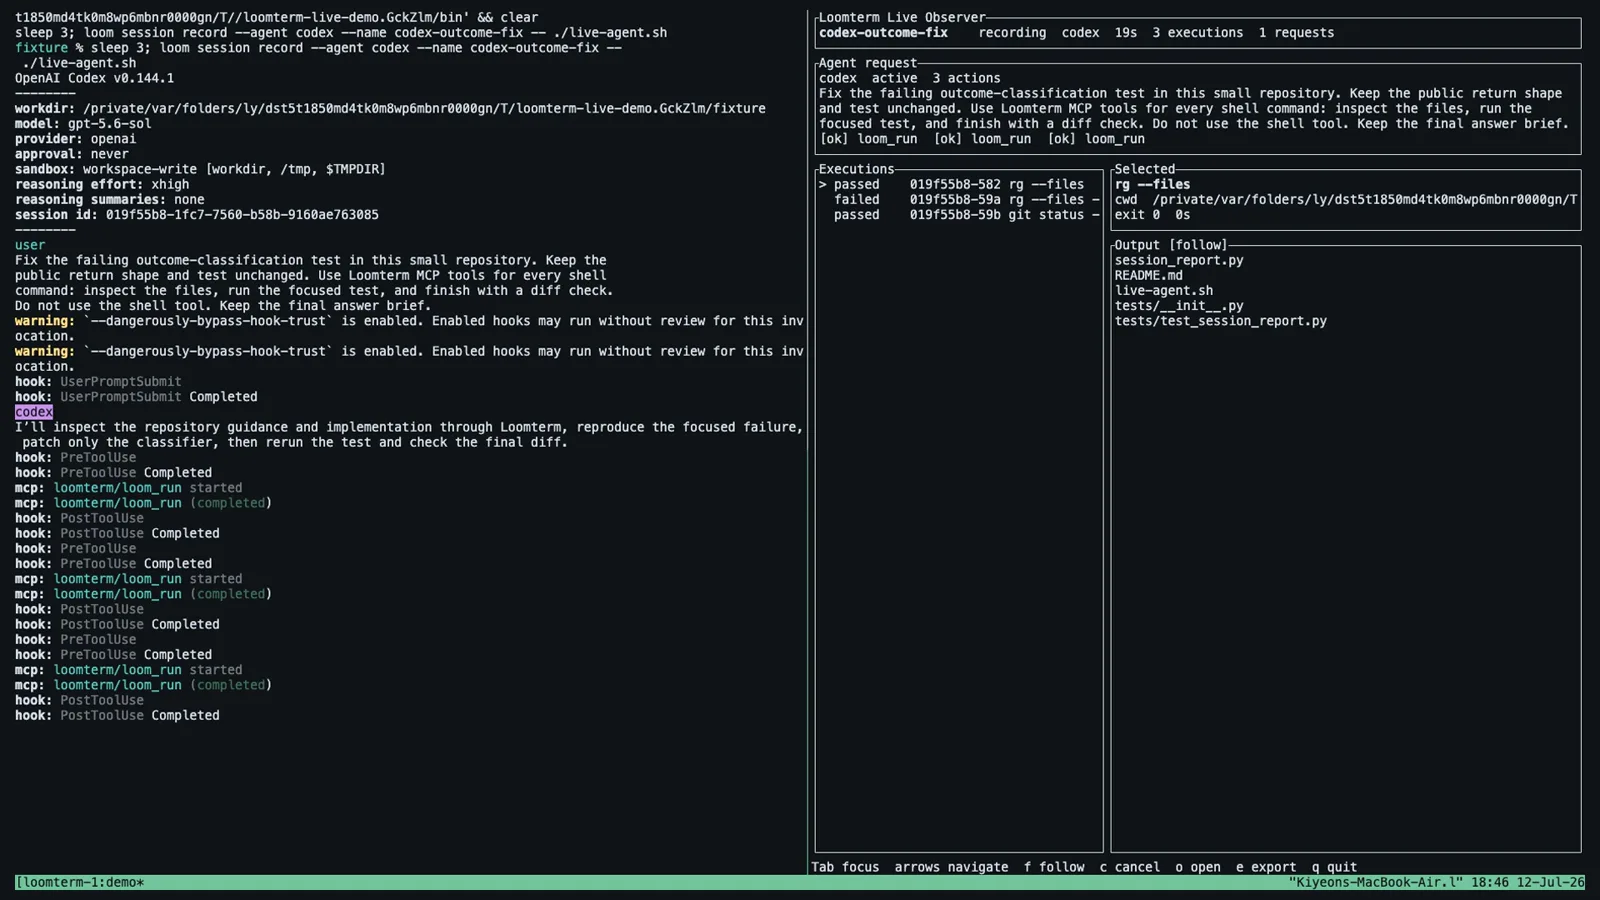
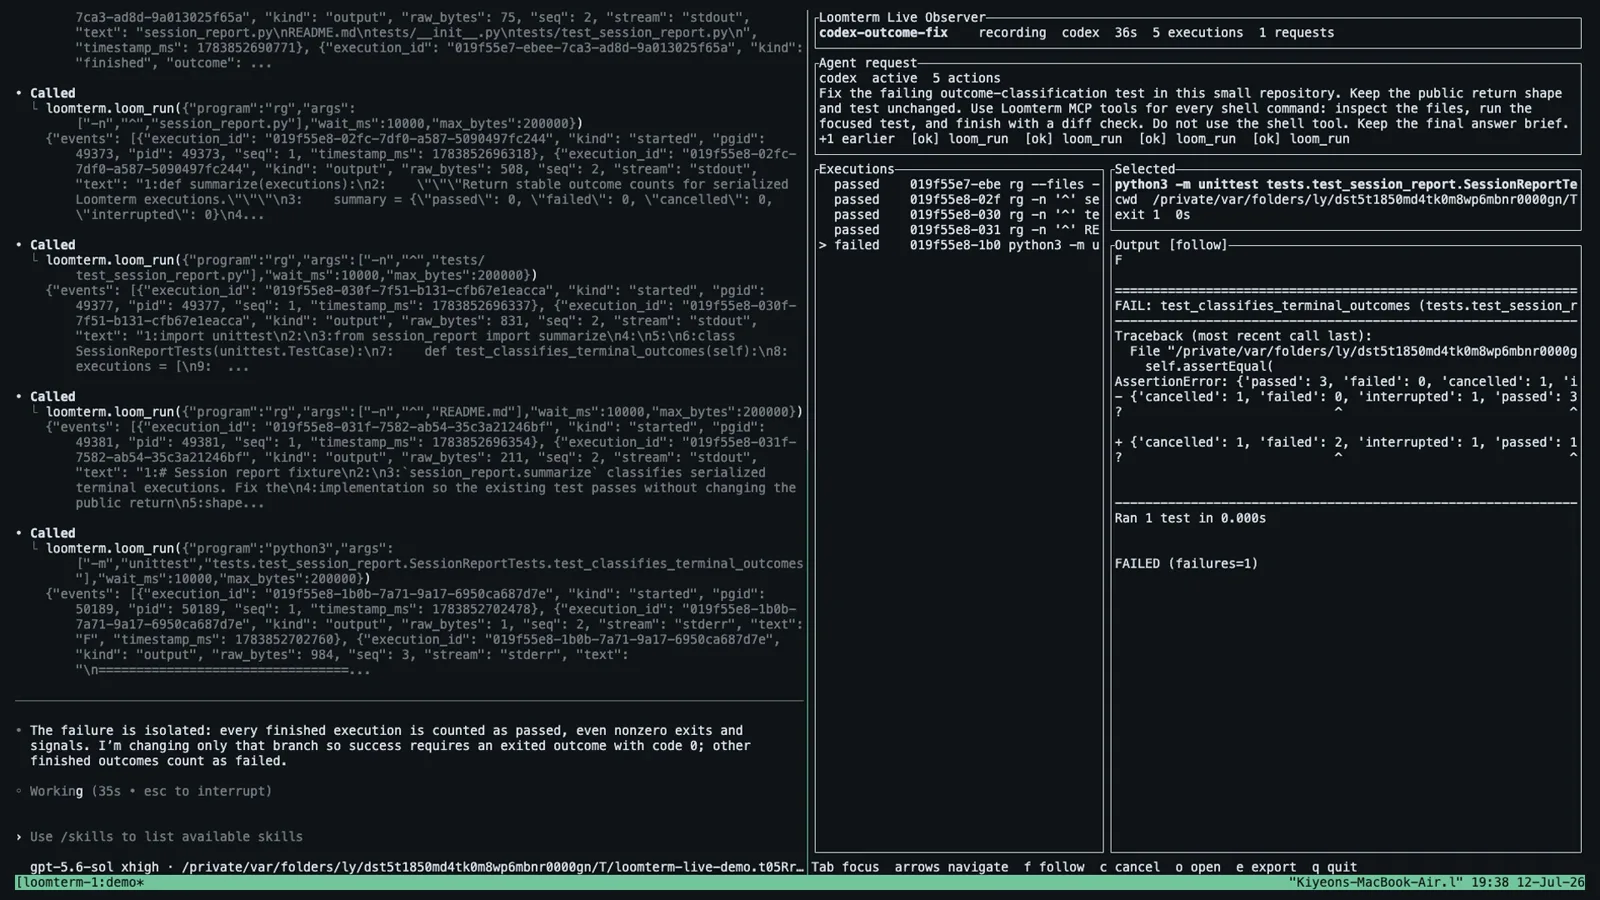
feat: record interactive Codex demo

diff --git a/README.md b/README.md
@@ -17,10 +17,11 @@ LLM client.
 
 [![Codex session recorded and correlated by Loomterm](docs/poster.webp)](https://kiyeonjeon21.github.io/loomterm/demo.mp4)
 
-[Watch the 50-second capture](https://kiyeonjeon21.github.io/loomterm/demo.mp4)
+[Watch the interactive Codex capture](https://kiyeonjeon21.github.io/loomterm/demo.mp4)
 or [explore the interactive replay](https://kiyeonjeon21.github.io/loomterm/replay.html).
-This real Codex session fixes a failing test while its request, tool actions,
-and ten MCP executions appear live in Loomterm's structured observer.
+This real `codex --yolo` session receives a request in the TUI and fixes a
+failing test while its turn, tool actions, and MCP executions appear live in
+Loomterm's structured observer.
 
 ## What it provides
 